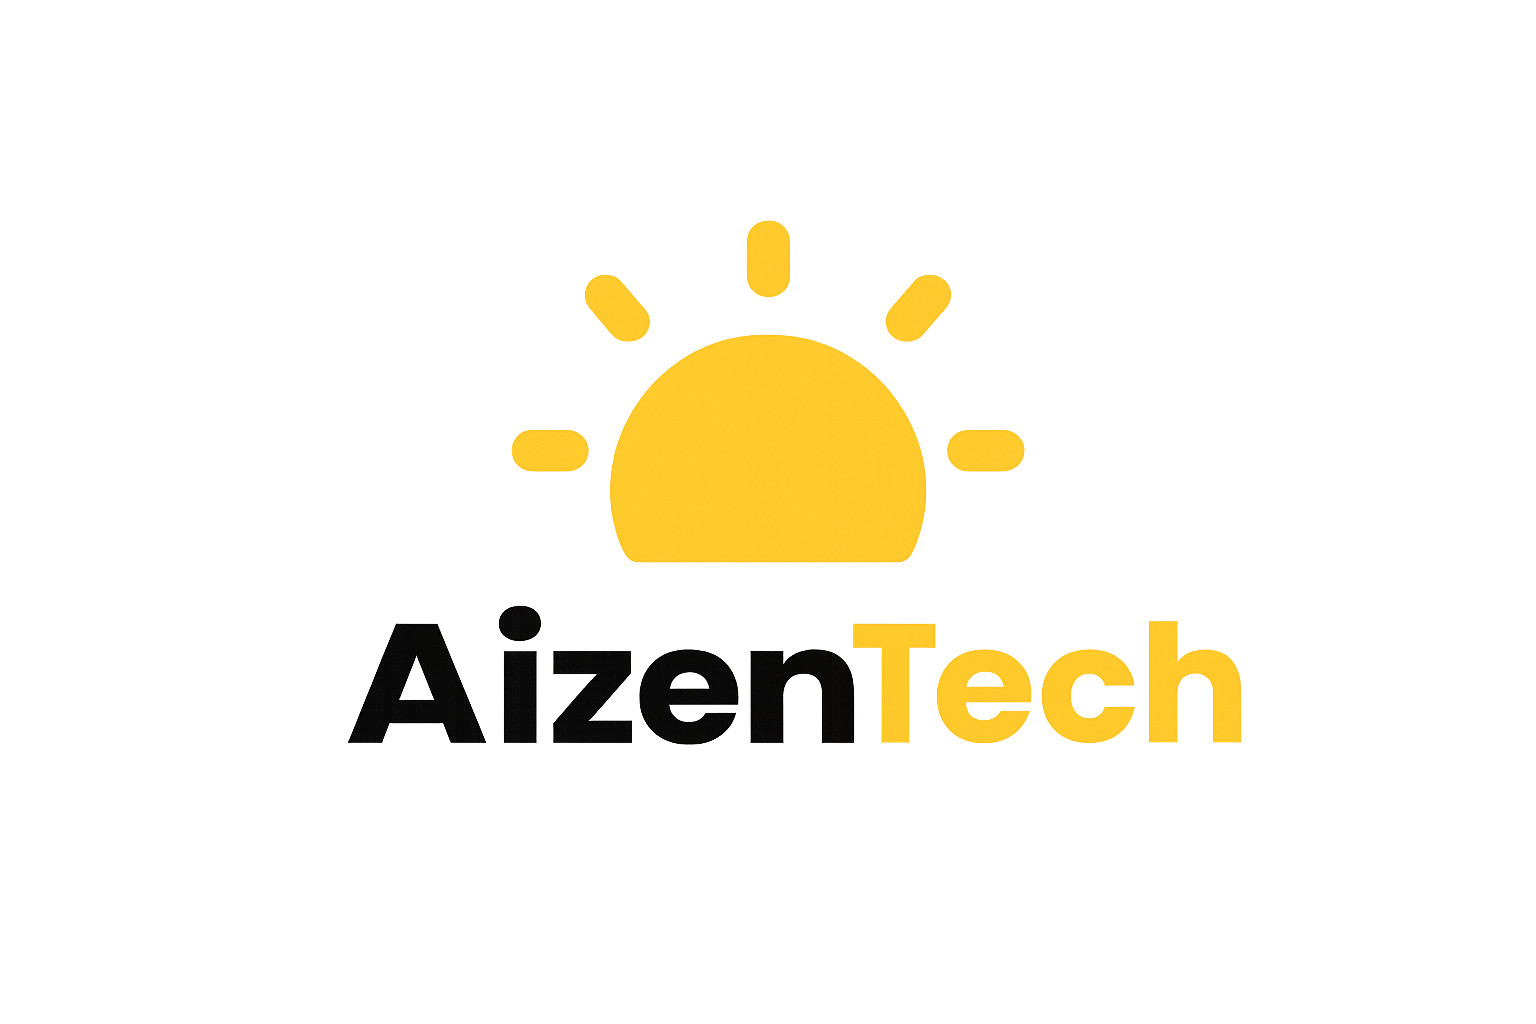
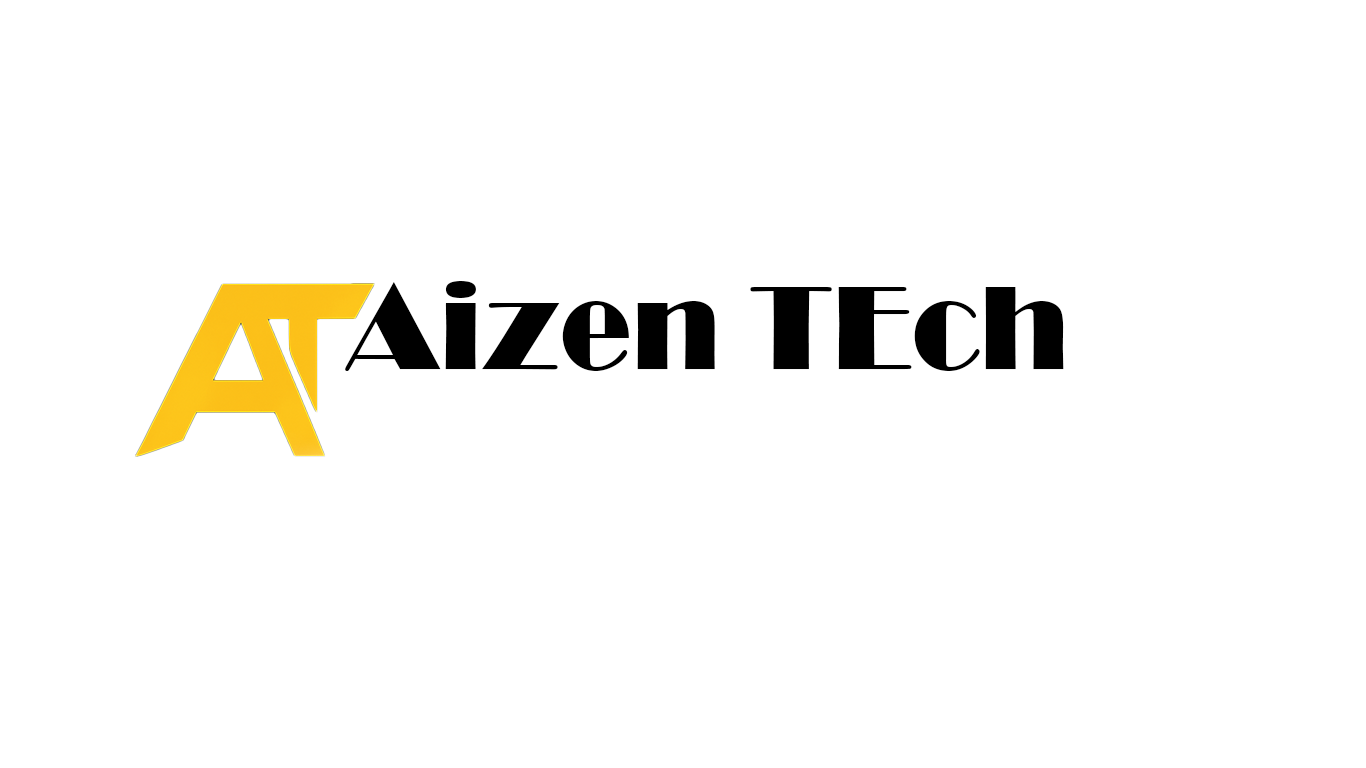
some few edits

Changed region(s): [[0.0922, 0.2188, 0.7994, 0.5938], [0.2152, 0.5938, 0.8302, 0.75], [0.369, 0.25, 0.4305, 0.3438]]

diff --git a/tmp.html b/tmp.html
@@ -1,0 +1,134 @@
+<!doctype html>
+<html lang="en">
+  <head>
+    <meta charset="UTF-8" />
+    <meta name="viewport" content="width=device-width, initial-scale=1.0" />
+    <title>BudgetMate - Personal Budget Tracker</title>
+    <meta name="description" content="Track your income and expenses with BudgetMate, a simple and beautiful budget tracking app" />
+    <meta name="author" content="Lovable" />
+
+    <meta property="og:title" content="0d20860b-d39c-41ff-82da-262709561708" />
+    <meta property="og:description" content="Lovable Generated Project" />
+    <meta property="og:type" content="website" />
+    <meta property="og:image" content="https://pub-bb2e103a32db4e198524a2e9ed8f35b4.r2.dev/b3d2dd41-c4d0-41bc-8212-a656f0f59bc1/id-preview-88e7d6d3--0d20860b-d39c-41ff-82da-262709561708.lovable.app-1763497959087.png" />
+
+    <meta name="twitter:card" content="summary_large_image" />
+    <meta name="twitter:site" content="@Lovable" />
+    <meta name="twitter:image" content="https://pub-bb2e103a32db4e198524a2e9ed8f35b4.r2.dev/b3d2dd41-c4d0-41bc-8212-a656f0f59bc1/id-preview-88e7d6d3--0d20860b-d39c-41ff-82da-262709561708.lovable.app-1763497959087.png" />
+    
+    <!-- Poppins Font -->
+    <link rel="preconnect" href="https://fonts.googleapis.com">
+    <link rel="preconnect" href="https://fonts.gstatic.com" crossorigin>
+    <link href="https://fonts.googleapis.com/css2?family=Poppins:wght@300;400;500;600;700;800&display=swap" rel="stylesheet">
+    <script type="module" crossorigin src="/assets/index-hI97o1Sp.js"></script>
+    <link rel="stylesheet" crossorigin href="/assets/index-BrtztIyR.css">
+  
+<style>
+	#lovable-badge {
+		position: fixed;
+		bottom: 10px;
+		right: 10px;
+		width: 141px;
+		padding: 5px 13px;
+		background-color: #000;
+		color: #fff;
+		font-size: 12px;
+		border-radius: 5px;
+		font-family: sans-serif;
+		display: flex;
+		align-items: center;
+		gap: 4px;
+		z-index: 1000000;
+		text-transform: none !important;
+		font-feature-settings: normal !important;
+		font-weight: 400 !important;
+	}
+</style>
+<script defer src="https://prompt-budget-spark.lovable.app/~flock.js" data-proxy-url="https://prompt-budget-spark.lovable.app/~api/analytics"></script></head>
+
+  <body>
+    <div id="root"></div>
+  
+<a id="lovable-badge" target="_blank" href="https://lovable.dev/projects/0d20860b-d39c-41ff-82da-262709561708?utm_source=lovable-badge">
+	<span style="color: #A1A1AA;">Edit with</span> <svg width="60" height="12" viewBox="0 0 116 22" fill="none" xmlns="http://www.w3.org/2000/svg">
+<path d="M109.108 21.115C107.649 21.115 106.381 20.8369 105.306 20.2807C104.23 19.7154 103.391 18.8675 102.789 17.7369C102.196 16.6063 101.9 15.2068 101.9 13.5382C101.9 11.9518 102.21 10.5841 102.83 9.4353C103.45 8.27736 104.307 7.3975 105.401 6.79574C106.495 6.19398 107.74 5.89309 109.135 5.89309C110.475 5.89309 111.665 6.18486 112.705 6.76839C113.744 7.35192 114.551 8.19986 115.125 9.31221C115.709 10.4246 116.001 11.7557 116.001 13.3057C116.001 13.8619 115.996 14.3041 115.987 14.6324H105.087V11.7603H113.347L111.788 12.2937C111.788 11.546 111.679 10.9215 111.46 10.42C111.25 9.90941 110.94 9.52647 110.53 9.27118C110.12 9.01588 109.623 8.88824 109.039 8.88824C108.428 8.88824 107.89 9.03868 107.425 9.33956C106.97 9.63133 106.614 10.069 106.359 10.6525C106.112 11.236 105.989 11.9381 105.989 12.7587V14.1674C105.989 15.0062 106.117 15.7174 106.372 16.3009C106.628 16.8844 106.992 17.3266 107.466 17.6275C107.941 17.9193 108.501 18.0651 109.149 18.0651C109.86 18.0651 110.448 17.8828 110.913 17.5181C111.378 17.1443 111.67 16.62 111.788 15.9453H115.932C115.805 17.0029 115.444 17.9193 114.852 18.6943C114.268 19.4693 113.489 20.0665 112.513 20.4859C111.537 20.9053 110.402 21.115 109.108 21.115Z" fill="#FCFBF8"/>
+<path d="M96.5167 1.1061H100.661V20.7181H96.5167V1.1061Z" fill="#FCFBF8"/>
+<path d="M89.4649 21.1148C88.6808 21.1148 87.9788 20.978 87.3588 20.7045C86.7479 20.4309 86.2282 20.0207 85.7996 19.4736C85.3711 18.9174 85.052 18.2336 84.8423 17.4221L85.2799 17.5452V20.7182H81.177V6.28948H85.321V9.51713L84.856 9.59919C85.0657 8.82419 85.3848 8.16316 85.8133 7.6161C86.251 7.05992 86.7844 6.63595 87.4135 6.34419C88.0426 6.04331 88.7492 5.89287 89.5333 5.89287C90.7095 5.89287 91.7307 6.19831 92.5968 6.80919C93.463 7.42007 94.1286 8.29992 94.5936 9.44875C95.0586 10.5885 95.2911 11.9424 95.2911 13.5107C95.2911 15.0698 95.054 16.4237 94.5799 17.5726C94.1058 18.7123 93.4265 19.5876 92.5421 20.1984C91.6668 20.8093 90.6411 21.1148 89.4649 21.1148ZM88.1794 17.9555C88.7994 17.9555 89.3191 17.7732 89.7385 17.4084C90.167 17.0437 90.4861 16.5286 90.6958 15.863C90.9146 15.1974 91.0241 14.4133 91.0241 13.5107C91.0241 12.608 90.9146 11.8239 90.6958 11.1583C90.4861 10.4927 90.167 9.97757 89.7385 9.61286C89.3191 9.23904 88.7994 9.05213 88.1794 9.05213C87.5685 9.05213 87.0442 9.23904 86.6066 9.61286C86.178 9.97757 85.8544 10.4973 85.6355 11.172C85.4167 11.8376 85.3073 12.6171 85.3073 13.5107C85.3073 14.4133 85.4167 15.1974 85.6355 15.863C85.8544 16.5286 86.178 17.0437 86.6066 17.4084C87.0442 17.7732 87.5685 17.9555 88.1794 17.9555ZM81.177 1.1061H85.321V6.28948H81.177V1.1061Z" fill="#FCFBF8"/>
+<path d="M70.7749 21.115C69.8723 21.115 69.0608 20.9372 68.3405 20.5816C67.6293 20.226 67.0686 19.72 66.6583 19.0635C66.2571 18.3979 66.0565 17.6229 66.0565 16.7385C66.0565 15.3891 66.4531 14.3588 67.2464 13.6476C68.0396 12.9274 69.1839 12.4578 70.6792 12.239L73.182 11.8834C73.6834 11.8104 74.08 11.7193 74.3718 11.6099C74.6636 11.5004 74.8778 11.3546 75.0146 11.1722C75.1514 10.9807 75.2197 10.7391 75.2197 10.4474C75.2197 10.1465 75.1377 9.87294 74.9736 9.62677C74.8186 9.37147 74.5815 9.17088 74.2624 9.025C73.9524 8.87 73.574 8.7925 73.1272 8.7925C72.4161 8.7925 71.8462 8.97941 71.4177 9.35324C70.9892 9.71794 70.7567 10.2194 70.7202 10.8576H66.4395C66.4759 9.89118 66.7677 9.03412 67.3148 8.28647C67.8709 7.52971 68.6414 6.94162 69.6261 6.52221C70.6108 6.1028 71.7505 5.89309 73.0452 5.89309C74.4037 5.89309 75.5525 6.11648 76.4917 6.56324C77.4308 7.00089 78.1374 7.63 78.6115 8.45059C79.0947 9.27118 79.3364 10.2513 79.3364 11.391V17.4087C79.3364 18.056 79.382 18.6578 79.4731 19.214C79.5734 19.761 79.7147 20.1075 79.8971 20.2534V20.7184H75.589C75.4887 20.3263 75.4112 19.8841 75.3565 19.3918C75.3018 18.8994 75.2699 18.3797 75.2608 17.8326L75.9309 17.5454C75.7577 18.1928 75.4386 18.79 74.9736 19.3371C74.5177 19.875 73.9296 20.3081 73.2093 20.6363C72.4981 20.9554 71.6867 21.115 70.7749 21.115ZM72.3067 18.0788C72.8902 18.0788 73.4053 17.9512 73.8521 17.6959C74.2989 17.4315 74.6408 17.0668 74.8778 16.6018C75.124 16.1368 75.2471 15.6079 75.2471 15.0153V13.1279L75.589 13.3194C75.3702 13.6112 75.0967 13.8346 74.7684 13.9896C74.4493 14.1446 74.0162 14.2768 73.4692 14.3862L72.4161 14.5913C71.714 14.7281 71.1852 14.9378 70.8296 15.2204C70.4831 15.5031 70.3099 15.8997 70.3099 16.4103C70.3099 16.9209 70.4968 17.3266 70.8706 17.6275C71.2445 17.9284 71.7231 18.0788 72.3067 18.0788Z" fill="#FCFBF8"/>
+<path d="M51.962 6.28958H56.3659L60.1542 18.6668H58.8276L62.4656 6.28958H66.7463L61.7544 20.7182H57.1454L51.962 6.28958Z" fill="#FCFBF8"/>
+<path d="M45.4846 21.115C44.0531 21.115 42.7949 20.805 41.7099 20.185C40.634 19.565 39.7997 18.6806 39.2071 17.5318C38.6236 16.3829 38.3318 15.0381 38.3318 13.4972C38.3318 11.9563 38.6236 10.616 39.2071 9.47633C39.7997 8.3275 40.634 7.44309 41.7099 6.82309C42.7949 6.20309 44.0531 5.89309 45.4846 5.89309C46.916 5.89309 48.1697 6.20309 49.2456 6.82309C50.3215 7.44309 51.1512 8.3275 51.7347 9.47633C52.3274 10.616 52.6237 11.9563 52.6237 13.4972C52.6237 15.0381 52.3274 16.3829 51.7347 17.5318C51.1512 18.6806 50.3215 19.565 49.2456 20.185C48.1697 20.805 46.916 21.115 45.4846 21.115ZM45.4846 17.9421C46.0863 17.9421 46.6015 17.7779 47.03 17.4497C47.4585 17.1123 47.7868 16.6154 48.0147 15.959C48.2427 15.2934 48.3566 14.4728 48.3566 13.4972C48.3566 12.0475 48.1059 10.9488 47.6044 10.2012C47.103 9.44441 46.3963 9.06603 45.4846 9.06603C44.8828 9.06603 44.3631 9.23471 43.9255 9.57206C43.4969 9.9003 43.1687 10.3972 42.9408 11.0628C42.7128 11.7193 42.5988 12.5307 42.5988 13.4972C42.5988 14.4637 42.7128 15.2797 42.9408 15.9453C43.1687 16.6109 43.4969 17.1123 43.9255 17.4497C44.3631 17.7779 44.8828 17.9421 45.4846 17.9421Z" fill="#FCFBF8"/>
+<path d="M26.2195 1.10631H30.514V17.6623L29.7481 16.7734C29.7481 16.7734 31.8751 16.7734 35.534 16.7734C39.1928 16.7734 38.6925 20.7184 38.6925 20.7184H26.2195V1.10631Z" fill="#FCFBF8"/>
+<mask id="mask0_19703_15608" style="mask-type:alpha" maskUnits="userSpaceOnUse" x="0" y="0" width="20" height="21">
+<path fill-rule="evenodd" clip-rule="evenodd" d="M5.90405 0.885124C9.16477 0.885124 11.8081 3.53543 11.8081 6.80474V9.05456H13.773C17.0337 9.05456 19.677 11.7049 19.677 14.9742C19.677 18.2435 17.0337 20.8938 13.773 20.8938H0V6.80474C0 3.53543 2.64333 0.885124 5.90405 0.885124Z" fill="url(#paint0_linear_19703_15608)"/>
+</mask>
+<g mask="url(#mask0_19703_15608)">
+<g filter="url(#filter0_f_19703_15608)">
+<circle cx="8.63157" cy="11.5658" r="13.3199" fill="#4B73FF"/>
+</g>
+<g filter="url(#filter1_f_19703_15608)">
+<ellipse cx="10.0949" cy="4.25612" rx="17.0591" ry="13.3199" fill="#FF66F4"/>
+</g>
+<g filter="url(#filter2_f_19703_15608)">
+<ellipse cx="12.8775" cy="1.74957" rx="13.3199" ry="11.6977" fill="#FF0105"/>
+</g>
+<g filter="url(#filter3_f_19703_15608)">
+<circle cx="10.3319" cy="4.25254" r="8.01052" fill="#FE7B02"/>
+</g>
+</g>
+<defs>
+<filter id="filter0_f_19703_15608" x="-10.6577" y="-7.72354" width="38.5786" height="38.5786" filterUnits="userSpaceOnUse" color-interpolation-filters="sRGB">
+<feFlood flood-opacity="0" result="BackgroundImageFix"/>
+<feBlend mode="normal" in="SourceGraphic" in2="BackgroundImageFix" result="shape"/>
+<feGaussianBlur stdDeviation="2.98472" result="effect1_foregroundBlur_19703_15608"/>
+</filter>
+<filter id="filter1_f_19703_15608" x="-12.9337" y="-15.0332" width="46.057" height="38.5786" filterUnits="userSpaceOnUse" color-interpolation-filters="sRGB">
+<feFlood flood-opacity="0" result="BackgroundImageFix"/>
+<feBlend mode="normal" in="SourceGraphic" in2="BackgroundImageFix" result="shape"/>
+<feGaussianBlur stdDeviation="2.98472" result="effect1_foregroundBlur_19703_15608"/>
+</filter>
+<filter id="filter2_f_19703_15608" x="-6.41182" y="-15.9176" width="38.5786" height="35.3342" filterUnits="userSpaceOnUse" color-interpolation-filters="sRGB">
+<feFlood flood-opacity="0" result="BackgroundImageFix"/>
+<feBlend mode="normal" in="SourceGraphic" in2="BackgroundImageFix" result="shape"/>
+<feGaussianBlur stdDeviation="2.98472" result="effect1_foregroundBlur_19703_15608"/>
+</filter>
+<filter id="filter3_f_19703_15608" x="-3.64803" y="-9.72742" width="27.9599" height="27.9599" filterUnits="userSpaceOnUse" color-interpolation-filters="sRGB">
+<feFlood flood-opacity="0" result="BackgroundImageFix"/>
+<feBlend mode="normal" in="SourceGraphic" in2="BackgroundImageFix" result="shape"/>
+<feGaussianBlur stdDeviation="2.98472" result="effect1_foregroundBlur_19703_15608"/>
+</filter>
+<linearGradient id="paint0_linear_19703_15608" x1="6.62168" y1="4.40129" x2="12.6165" y2="20.8863" gradientUnits="userSpaceOnUse">
+<stop offset="0.025" stop-color="#FF8E63"/>
+<stop offset="0.56" stop-color="#FF7EB0"/>
+<stop offset="0.95" stop-color="#4B73FF"/>
+</linearGradient>
+</defs>
+</svg>
+
+
+	<button id="lovable-badge-close" style="position: absolute; top: -2px; right: 5px; cursor: pointer; font-size: 14px; color: #A1A1AA;">&times;</button>
+</a>
+<script>
+	// Don't show the lovable-badge if the page is in an iframe or if it's being rendered by puppeteer (screenshot service)
+	if (window.self !== window.top || navigator.userAgent.includes('puppeteer')) {
+		// the page is in an iframe
+		var badge = document.getElementById('lovable-badge');
+		if (badge) {
+			badge.style.display = 'none';
+		}
+	}
+
+	// Add click event listener to close button
+	var closeButton = document.getElementById('lovable-badge-close');
+	if (closeButton) {
+		closeButton.addEventListener('click', function(event) {
+			event.preventDefault();
+			event.stopPropagation();
+			var badge = document.getElementById('lovable-badge');
+			if (badge) {
+				badge.style.display = 'none';
+			}
+		});
+	}
+</script>
+</body>
+</html>

diff --git a/src/components/Portfolio.tsx b/src/components/Portfolio.tsx
@@ -1,9 +1,16 @@
-import { Card, CardContent, CardHeader, CardTitle } from '@/components/ui/card';
-import { Button } from '@/components/ui/button';
-import { ExternalLink } from 'lucide-react';
+import { Card, CardContent, CardHeader, CardTitle } from "@/components/ui/card";
+import { Button } from "@/components/ui/button";
+import { ExternalLink } from "lucide-react";
 
 export const Portfolio = () => {
   const projects = [
+    {
+      title: "BudgetMate",
+      description: "A friendly personal finance dashboard that helps you track spending, log transactions, and stay on budget with a clean UI.",
+      tech: ["Next.js", "TypeScript", "Tailwind CSS"],
+      liveUrl: "https://prompt-budget-spark.lovable.app",
+      image: "https://images.unsplash.com/photo-1556740749-887f6717d7e4?w=600&h=400&fit=crop"
+    },
     {
       title: "AI Chat Simulator",
       description: "An interactive AI chat simulator built with modern web technologies, demonstrating real-time conversation capabilities.",
@@ -11,14 +18,6 @@ export const Portfolio = () => {
       liveUrl: "https://ai-chatsim.vercel.app/",
       image: "https://images.unsplash.com/photo-1677442136019-21780ecad995?w=600&h=400&fit=crop"
     },
-    {
-      title: "FinanceLogger",
-      description: "Personal finance tracking application built with Django, helping users manage their financial goals.",
-      tech: ["Django", "Python", "SQLite"],
-      liveUrl: "https://finance-logger-sepia.vercel.app/",
-      image: "https://images.unsplash.com/photo-1554224155-6726b3ff858f?w=600&h=400&fit=crop"
-    },
-    
     {
       title: "FaithfulFlock",
       description: "Church management system built with Laravel for managing members, events, and communications.",
@@ -49,6 +48,13 @@ export const Portfolio = () => {
     }
   ];
 
+  const navigateToProject = (url: string) => {
+    const newWindow = window.open(url, "_blank", "noopener,noreferrer");
+    if (newWindow) {
+      newWindow.opener = null;
+    }
+  };
+
   return (
     <section id="portfolio" className="py-20 sm:py-24 md:py-32 bg-background">
       <div className="max-w-7xl mx-auto px-4 sm:px-6 lg:px-8">
@@ -64,14 +70,19 @@ export const Portfolio = () => {
         
         <div className="grid grid-cols-1 sm:grid-cols-2 lg:grid-cols-3 gap-8">
           {projects.map((project) => (
-            <a 
-              key={project.title} 
-              href={project.liveUrl} 
-              target="_blank" 
-              rel="noopener noreferrer"
-              className="block group"
-            >
-              <Card className="h-full flex flex-col bg-white/5 hover:bg-white/10 border border-white/10 rounded-xl transition-all duration-300 transform hover:-translate-y-1">
+            <article key={project.title} className="group">
+              <Card
+                role="button"
+                tabIndex={0}
+                onClick={() => navigateToProject(project.liveUrl)}
+                onKeyDown={(event) => {
+                  if (event.key === "Enter" || event.key === " ") {
+                    event.preventDefault();
+                    navigateToProject(project.liveUrl);
+                  }
+                }}
+                className="h-full flex flex-col bg-white/5 hover:bg-white/10 border border-white/10 rounded-xl transition-all duration-300 transform hover:-translate-y-1 cursor-pointer focus-visible:outline-none focus-visible:ring-2 focus-visible:ring-brand-purple/40"
+              >
                 <div className="relative overflow-hidden aspect-video rounded-t-xl">
                   <img 
                     src={project.image}
@@ -80,7 +91,14 @@ export const Portfolio = () => {
                     loading="lazy"
                   />
                   <div className="absolute inset-0 bg-brand-charcoal/70 opacity-0 group-hover:opacity-100 transition-opacity duration-300 flex items-center justify-center p-4">
-                    <Button size="sm" className="bg-brand-purple text-brand-off-white font-bold hover:bg-opacity-80 text-sm shadow-lg">
+                    <Button
+                      size="sm"
+                      className="bg-brand-purple text-brand-off-white font-bold hover:bg-opacity-80 text-sm shadow-lg"
+                      onClick={(event) => {
+                        event.stopPropagation();
+                        navigateToProject(project.liveUrl);
+                      }}
+                    >
                       <ExternalLink size={16} className="mr-2" />
                       View Live Demo
                     </Button>
@@ -105,7 +123,7 @@ export const Portfolio = () => {
                   </div>
                 </CardContent>
               </Card>
-            </a>
+            </article>
           ))}
         </div>
       <div className="text-center mt-16">

diff --git a/src/components/Services.tsx b/src/components/Services.tsx
@@ -1,25 +1,42 @@
-import { Code, Palette, Smartphone } from "lucide-react";
+import { Code, Palette, Wrench } from "lucide-react";
 import { Card, CardContent, CardDescription, CardHeader, CardTitle } from "@/components/ui/card";
 
 export const Services = () => {
   const services = [
     {
       icon: Code,
-      title: "Web Development & Design",
-      description: "Modern, responsive websites and e-commerce platforms built with cutting-edge technologies. From concept to deployment, we create digital experiences that drive results.",
-      features: ["Responsive Design", "E-commerce Solutions", "Custom Web Applications", "SEO Optimization"]
+      title: "Web & Application Development",
+      description: "Responsive, high-performance websites and apps tailored to your business needs—from marketing sites to complex internal tools.",
+      features: [
+        "Portfolio websites",
+        "Business websites",
+        "E-commerce systems",
+        "Web apps (dashboards, internal tools)",
+        "Mobile-friendly UI designs"
+      ]
     },
     {
       icon: Palette,
       title: "Graphic Design",
-      description: "Complete branding solutions including logos, banners, business cards, and marketing materials. We create visual identities that make your brand stand out.",
-      features: ["Logo Design", "Brand Identity Kits", "Marketing Materials", "Print & Digital Design"]
+      description: "Visual identities and marketing assets that keep your brand consistent across every touchpoint.",
+      features: [
+        "Branding (logos, identities, style guides)",
+        "Posters, flyers, social media content",
+        "Business cards",
+        "Print design"
+      ]
     },
     {
-      icon: Smartphone,
-      title: "Software Development",
-      description: "Custom software solutions tailored to your business needs. From mobile apps to desktop applications, we build technology that scales with your growth.",
-      features: ["Mobile Applications", "Desktop Software", "API Development", "System Integration"]
+      icon: Wrench,
+      title: "Technical Support",
+      description: "Hands-on support that keeps your systems running smoothly, from hardware fixes to network optimization.",
+      features: [
+        "Computer hardware repairs",
+        "Software troubleshooting",
+        "Windows/MacOS install & config",
+        "Network setup (WiFi, routers, LAN)",
+        "Diagnostics & optimization"
+      ]
     }
   ];
 

diff --git a/src/components/Header.tsx b/src/components/Header.tsx
@@ -1,6 +1,7 @@
 import { useState } from "react";
 import { Menu, X } from "lucide-react";
 import { Button } from "@/components/ui/button";
+import logo from "@/images/Aizen.png";
 
 export const Header = () => {
   const [isMenuOpen, setIsMenuOpen] = useState(false);
@@ -15,12 +16,24 @@ export const Header = () => {
 
   return (
     <header className="fixed top-0 left-0 right-0 z-50 bg-background/95 backdrop-blur-sm border-b border-border shadow-sm">
-      <div className="container mx-auto px-4 py-2">
-        <div className="flex items-center justify-between">
+      <div className="w-full px-4 sm:px-6 py-2 max-w-screen-2xl mx-auto">
+        <div className="flex items-center justify-between gap-4">
           {/* Logo */}
-          <div className="flex items-center h-12">
-            <img src="src/images/AIZEN.png" alt="AizenTech Logo" className="h-12 w-auto object-contain" />
-          </div>
+          <a
+            href="#home"
+            onClick={(event) => {
+              event.preventDefault();
+              scrollToSection("home");
+            }}
+            aria-label="Go to homepage"
+            className="flex items-center h-20 pr-6 -ml-3 cursor-pointer focus-visible:outline-none focus-visible:ring-2 focus-visible:ring-primary/40"
+          >
+            <img
+              src={logo}
+              alt="AizenTech Logo"
+              className="h-20 w-auto object-contain"
+            />
+          </a>
 
           {/* Desktop Navigation */}
           <nav className="hidden md:flex items-center space-x-8">

diff --git a/src/components/About.tsx b/src/components/About.tsx
@@ -47,6 +47,25 @@ export const About = () => {
               Africa. Our mission is to bridge the digital divide by providing world-class technology services 
               at prices that make sense for local businesses.
             </p>
+            
+            <div className="grid grid-cols-1 md:grid-cols-2 gap-6 mb-8">
+              <Card className="border-2 border-primary/10 shadow-card bg-background">
+                <CardContent className="p-6">
+                  <h3 className="text-xl font-bold text-foreground mb-2">Vision</h3>
+                  <p className="text-muted-foreground leading-relaxed">
+                    To build a sleek digital presence and solid IT support system for small businesses in Malawi and beyond.
+                  </p>
+                </CardContent>
+              </Card>
+              <Card className="border-2 border-primary/10 shadow-card bg-background">
+                <CardContent className="p-6">
+                  <h3 className="text-xl font-bold text-foreground mb-2">Mission</h3>
+                  <p className="text-muted-foreground leading-relaxed">
+                    Deliver high-quality web apps, graphics, and technical support with a personal touch, modern tools, and future-ready thinking.
+                  </p>
+                </CardContent>
+              </Card>
+            </div>
 
             <div className="grid grid-cols-1 sm:grid-cols-2 gap-6 mt-8">
               <div className="flex items-center">
